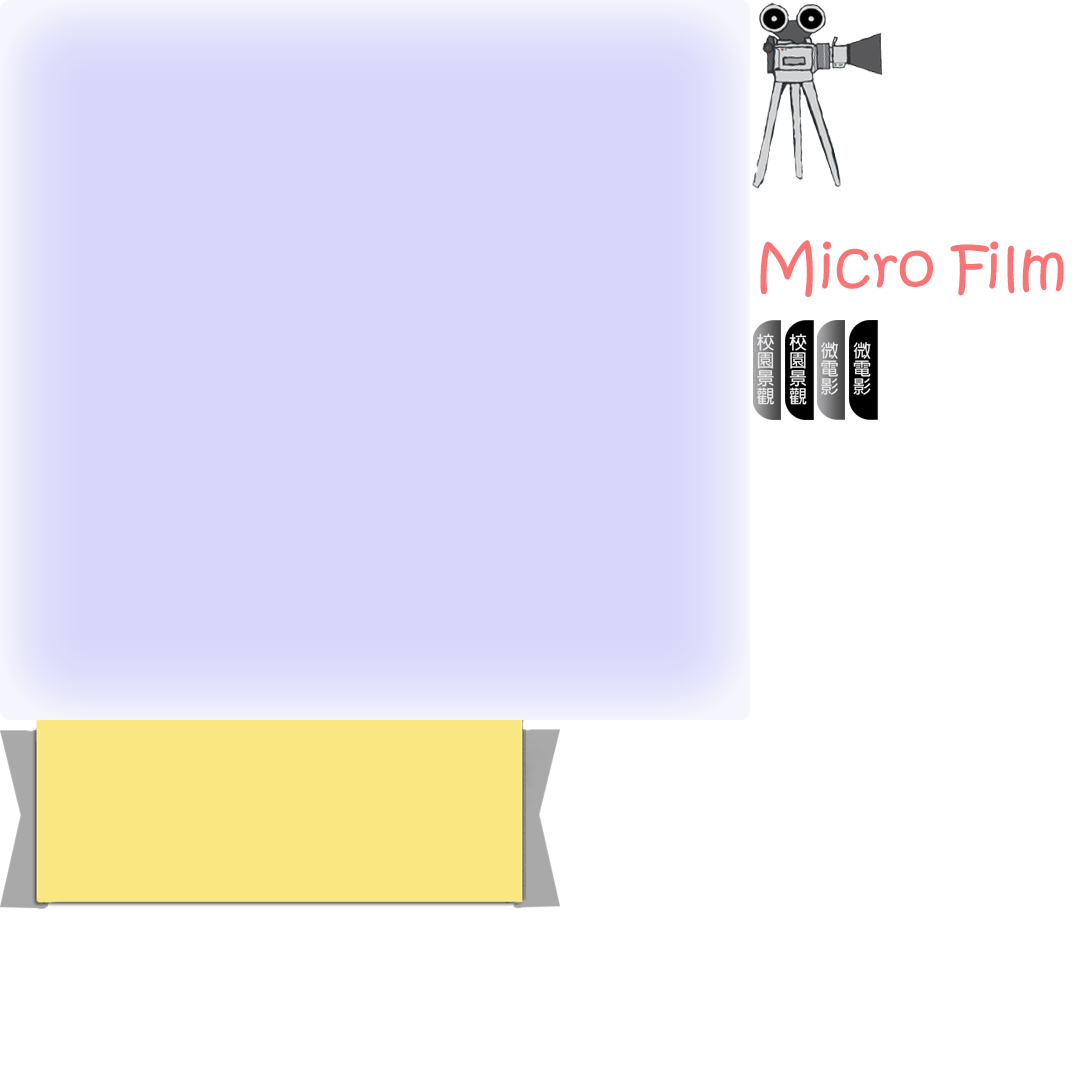
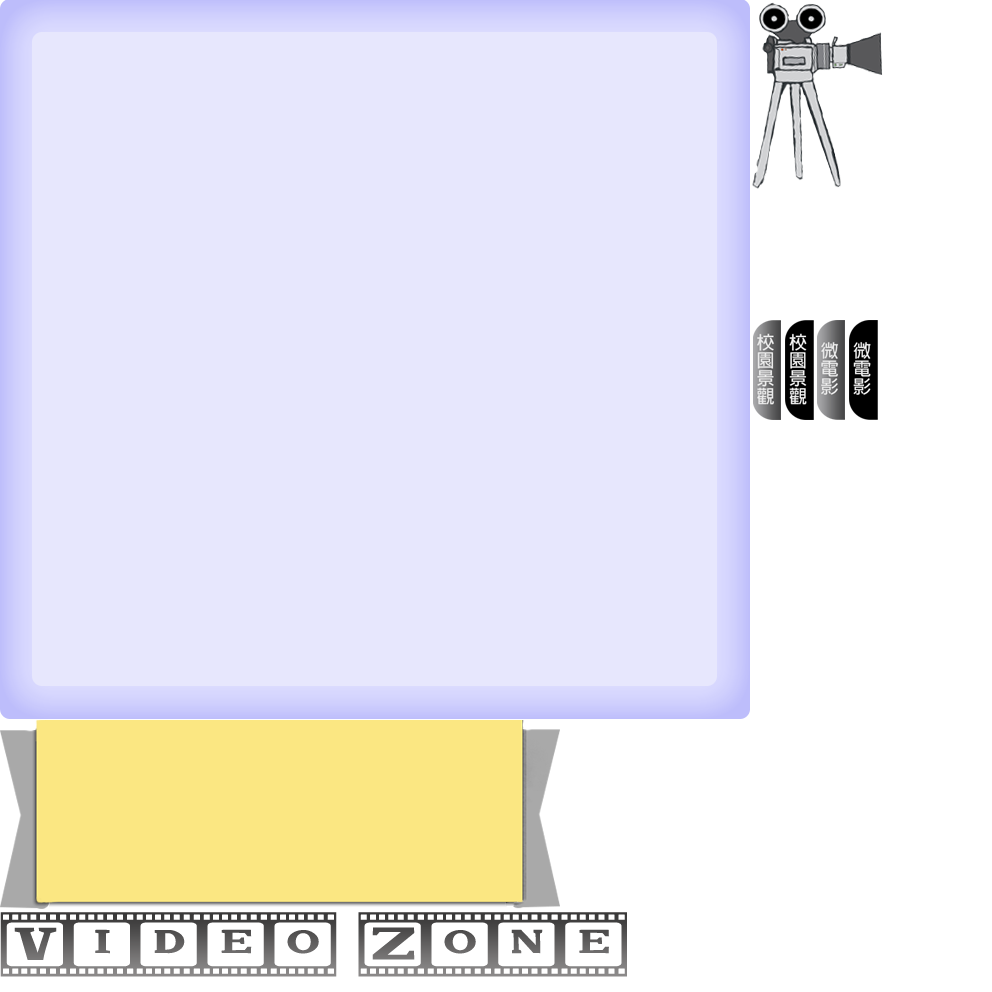
[MOD] Changes the image of multimedia.  [DEL] Removes useless files.

Changed region(s): [[0.0, 0.0, 1.0, 1.0]]

diff --git a/statics/styles/style.css b/statics/styles/style.css
@@ -328,21 +328,6 @@ a:hover
     color: #7C7C7C;
 }
 
-.ui-dialog
-{
-    position: absolute;
-}
-
-.ui-widget-overlay {
-    position: absolute;
-    top: 0;
-    left: 0;
-    width: 100%;
-    height: 100%;
-    background: #000000;
-    opacity: 0.7;
-}
-
 .scroll-container
 {
     position: relative;
@@ -1540,12 +1525,6 @@ table.gsc-completion-container
     border: 3px solid #7C7C7C;
 }
 
-ul#nculife-details
-{  
-    margin: 0;
-    padding: 0;
-}
-
 /**
  * Index style
  */
@@ -2457,10 +2436,10 @@ button.news-button
 
 #multimedia .title
 {
-    background-position: -752px -240px;
+    background-position: 0 -912px;
     background-repeat: no-repeat;
-    height: 60px;
-    width: 324px;
+    height: 65px;
+    width: 630px;
     margin: 15px auto;
 }
 
@@ -2611,8 +2590,8 @@ button.news-button
     background-position: 0px -720px;
     background-repeat: no-repeat;
     color: #000000;
-    height: 150px;
-    padding: 25px 55px;
+    height: 160px;
+    padding: 15px 55px;
 }
 
 #multimedia-frame
